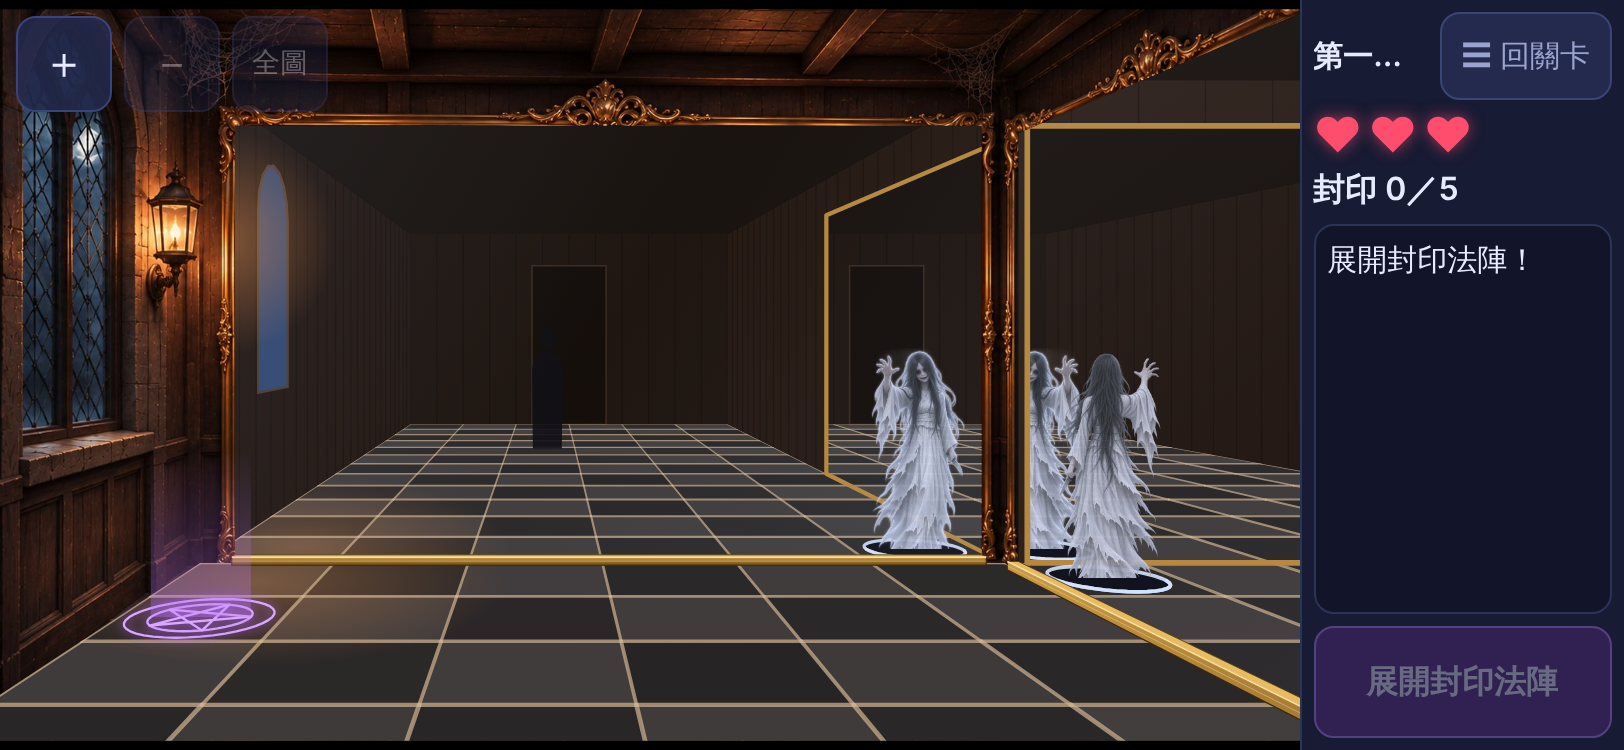
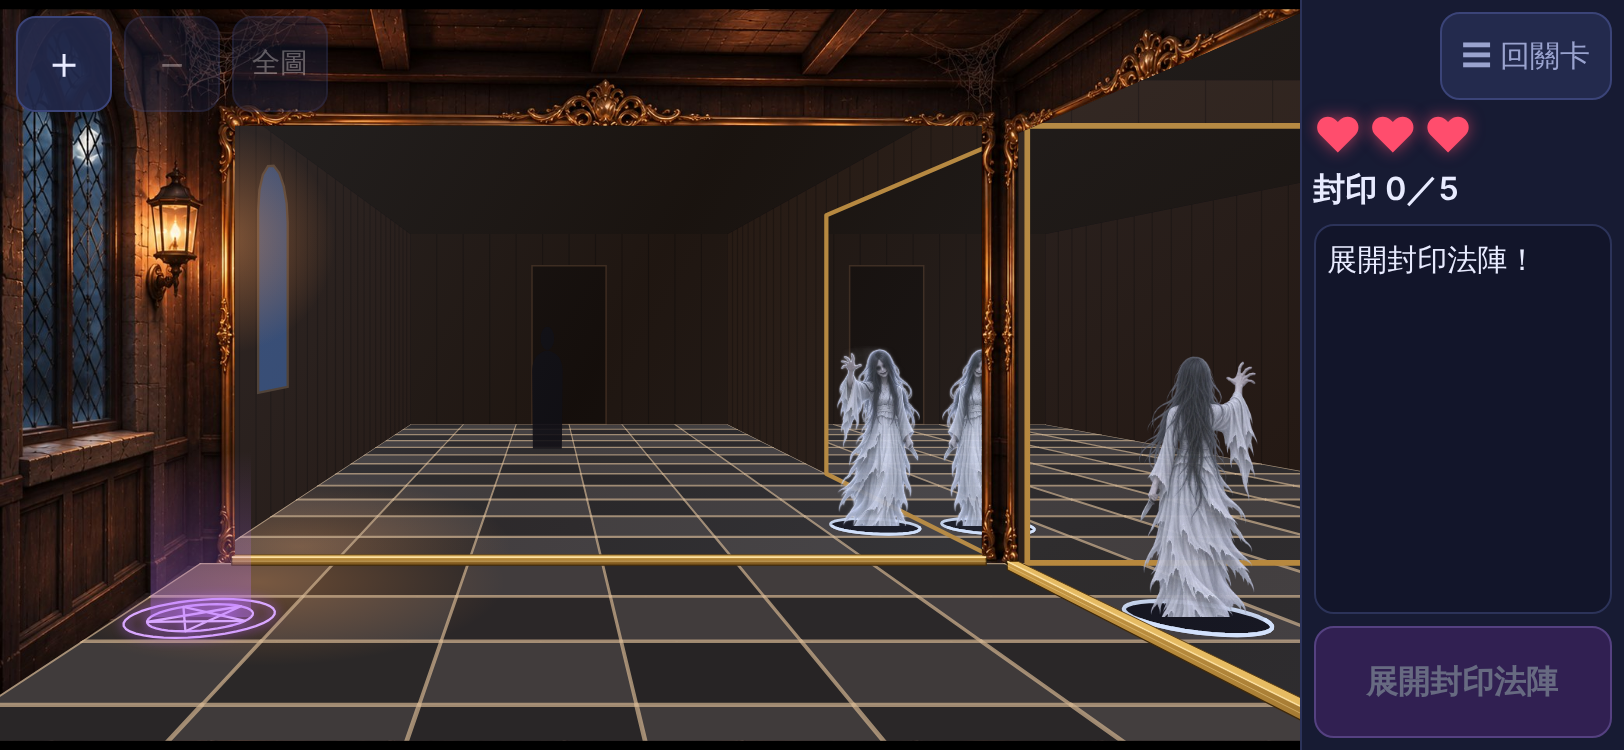
feat(level 1): no level title in play/practice (consistent with levels 2-3); practice tag on seal count
Claude-Session: https://claude.ai/code/session_01HvGmyWyQoEwcRoeJ2hgrpt

Changed region(s): [[0.4926, 0.46, 0.8005, 0.8587], [0.0924, 0.7973, 0.1539, 0.8587], [0.8005, 0.0613, 0.8621, 0.092]]

diff --git a/tests/e2e-plane-mirror.js b/tests/e2e-plane-mirror.js
@@ -180,6 +180,7 @@ async function levelFlow(profile, browser) {
   ok(await page.evaluate(() => Leaderboard.activeLevel()) === 'mirror', '排行榜：按【開始抓鬼】才開始第一關計時');
   ok(s.lives === 3 && s.hearts === 3 && s.sealed === 0 && s.phase === 1, '3 條命、封印 0、兩面鏡', JSON.stringify([s.lives, s.sealed, s.phase]));
   ok(s.intact.join() === 'back,right', '兩面鏡都完好');
+  ok(await page.isHidden('#title'), '關卡模式不顯示關卡名稱（2026-11-19 三關一致）');
   ok(await page.evaluate(() => window.__protoMirror.pools[1].some((c) => window.__protoMirror.core.cellId(c.col, c.row) === window.__protoMirror.core.cellId(window.__protoMirror.state.ghost.col, window.__protoMirror.state.ghost.row))), '鬼在雙鏡出題格內', s.ghost);
   ok(['c6r1', 'c5r1', 'c6r2'].indexOf(s.ghost) >= 0, '雙鏡第 1 隻只出在 (右1,上1)(右2,上1)(右1,上2) 三格', s.ghost);
   ok(s.images.back && s.images.right, '兩面鏡裡都有鬼的像');
@@ -395,7 +396,7 @@ async function practiceMode(profile, browser) {
   ok(s.scene === null, '?practice=1 沒有開場過場，直接開始');
   ok(await page.evaluate(() => window.Leaderboard.getRun()) === null, '排行榜：練習模式不開始趕鬼計時');
   ok(await page.isVisible('#hud') && s.lives === 3 && await page.isHidden('#freeTools'), '練習模式照樣有 3 條命、沒有開發工具');
-  ok(/練習/.test(await page.textContent('#title')), '標題寫「練習模式」');
+  ok(await page.isHidden('#title') && /^練習　封印 /.test(s.sealText), '練習模式：不顯示關卡名稱（三關一致），封印數前標「練習」', s.sealText);
   ok(['c6r1', 'c5r1', 'c6r2'].indexOf(s.ghost) >= 0, '練習模式出題規則和關卡相同（雙鏡只出那三格）', s.ghost);
   await t.castWrong(0); await t.waitIdle();
   s = await info();

diff --git a/prototype/plane-mirror/app.js b/prototype/plane-mirror/app.js
@@ -721,7 +721,7 @@
     var hearts = $('hearts').children, i;
     for (i = 0; i < hearts.length; i++) hearts[i].className = i < state.lives ? '' : 'lost';
     $('hearts').setAttribute('aria-label', '剩下 ' + state.lives + ' 條命');
-    $('sealCount').textContent = '封印 ' + state.sealed + '／' + R.catchesTotal;
+    $('sealCount').textContent = (PRACTICE ? '練習　' : '') + '封印 ' + state.sealed + '／' + R.catchesTotal;
     $('hud').hidden = FREE;
     $('castBtn').hidden = state.revealed;
     $('castBtn').disabled = !state.selected || !canAct();
@@ -887,6 +887,7 @@
   if (FREE) { $('title').innerHTML = '平面鏡原型 <small>自由練習</small>'; fillCellSel(); }
   layout();
   resetLevel();
-  if (PRACTICE) $('title').innerHTML = '第一關 <small>練習模式</small>';
+  // 關卡名稱不顯示（使用者 2026-11-19：三關一致，都不寫關卡名稱；右上角留給「☰ 回關卡」）。自由練習（開發用）照舊顯示。
+  $('title').hidden = !FREE;
   if (!FREE && !PRACTICE) { if (artReady()) showIntro(); else pendingIntro = true; }
 })();

diff --git a/prototype/plane-mirror/index.html b/prototype/plane-mirror/index.html
@@ -66,7 +66,7 @@
   /* 「☰ 回關卡」放在右上角（使用者 2026-11-18 回饋 G1，三關統一；字樣同日改成「回關卡」） */
   #sideTop { display:flex; align-items:center; gap:6px; }
   #sideTop h1 { flex:1 1 auto; min-width:0; }
-  #side #menuLink { flex:0 0 auto; width:auto; min-height:44px; font-size:15px; padding:2px 10px; white-space:nowrap; }
+  #side #menuLink { flex:0 0 auto; width:auto; margin-left:auto; min-height:44px; font-size:15px; padding:2px 10px; white-space:nowrap; }
   /* 「匡啷！」那一句：過場畫面震一下（M5） */
   .story-bg.mirror-shake { animation:mirrorShake .65s ease-out; }
   @keyframes mirrorShake { 0%,100% { transform:translate(0,0); } 12% { transform:translate(-14px,6px); } 25% { transform:translate(12px,-8px); } 38% { transform:translate(-9px,5px); } 52% { transform:translate(7px,-4px); } 68% { transform:translate(-4px,2px); } 84% { transform:translate(2px,-1px); } }

diff --git a/PROJECT.md b/PROJECT.md
@@ -96,6 +96,7 @@
 - 失敗／結束畫面的主按鈕三關統一叫【重新挑戰】。已實作。
 - **第一關女鬼面向正面的鏡子**（`configs.js` 的 `ghost.facing: -1`）：正面鏡裡看到正面、抓到現身的本體是背面；右鏡裡是背面、鏡中鏡是正面。照鏡射算，物理一致。已實作。
 - 第一關失敗畫面的背景（鏡中有女鬼的像）：使用者說不重要，維持現狀。
+- **三關遊戲畫面都不寫關卡名稱**（使用者 2026-11-19；第二、三關本來就沒有，第一關跟著拿掉）。練習模式改在封印數前標「練習」。自由練習（`?free=1`，開發用）照舊顯示標題。已實作。
 
 ## DO NOT RE-DERIVE
 
